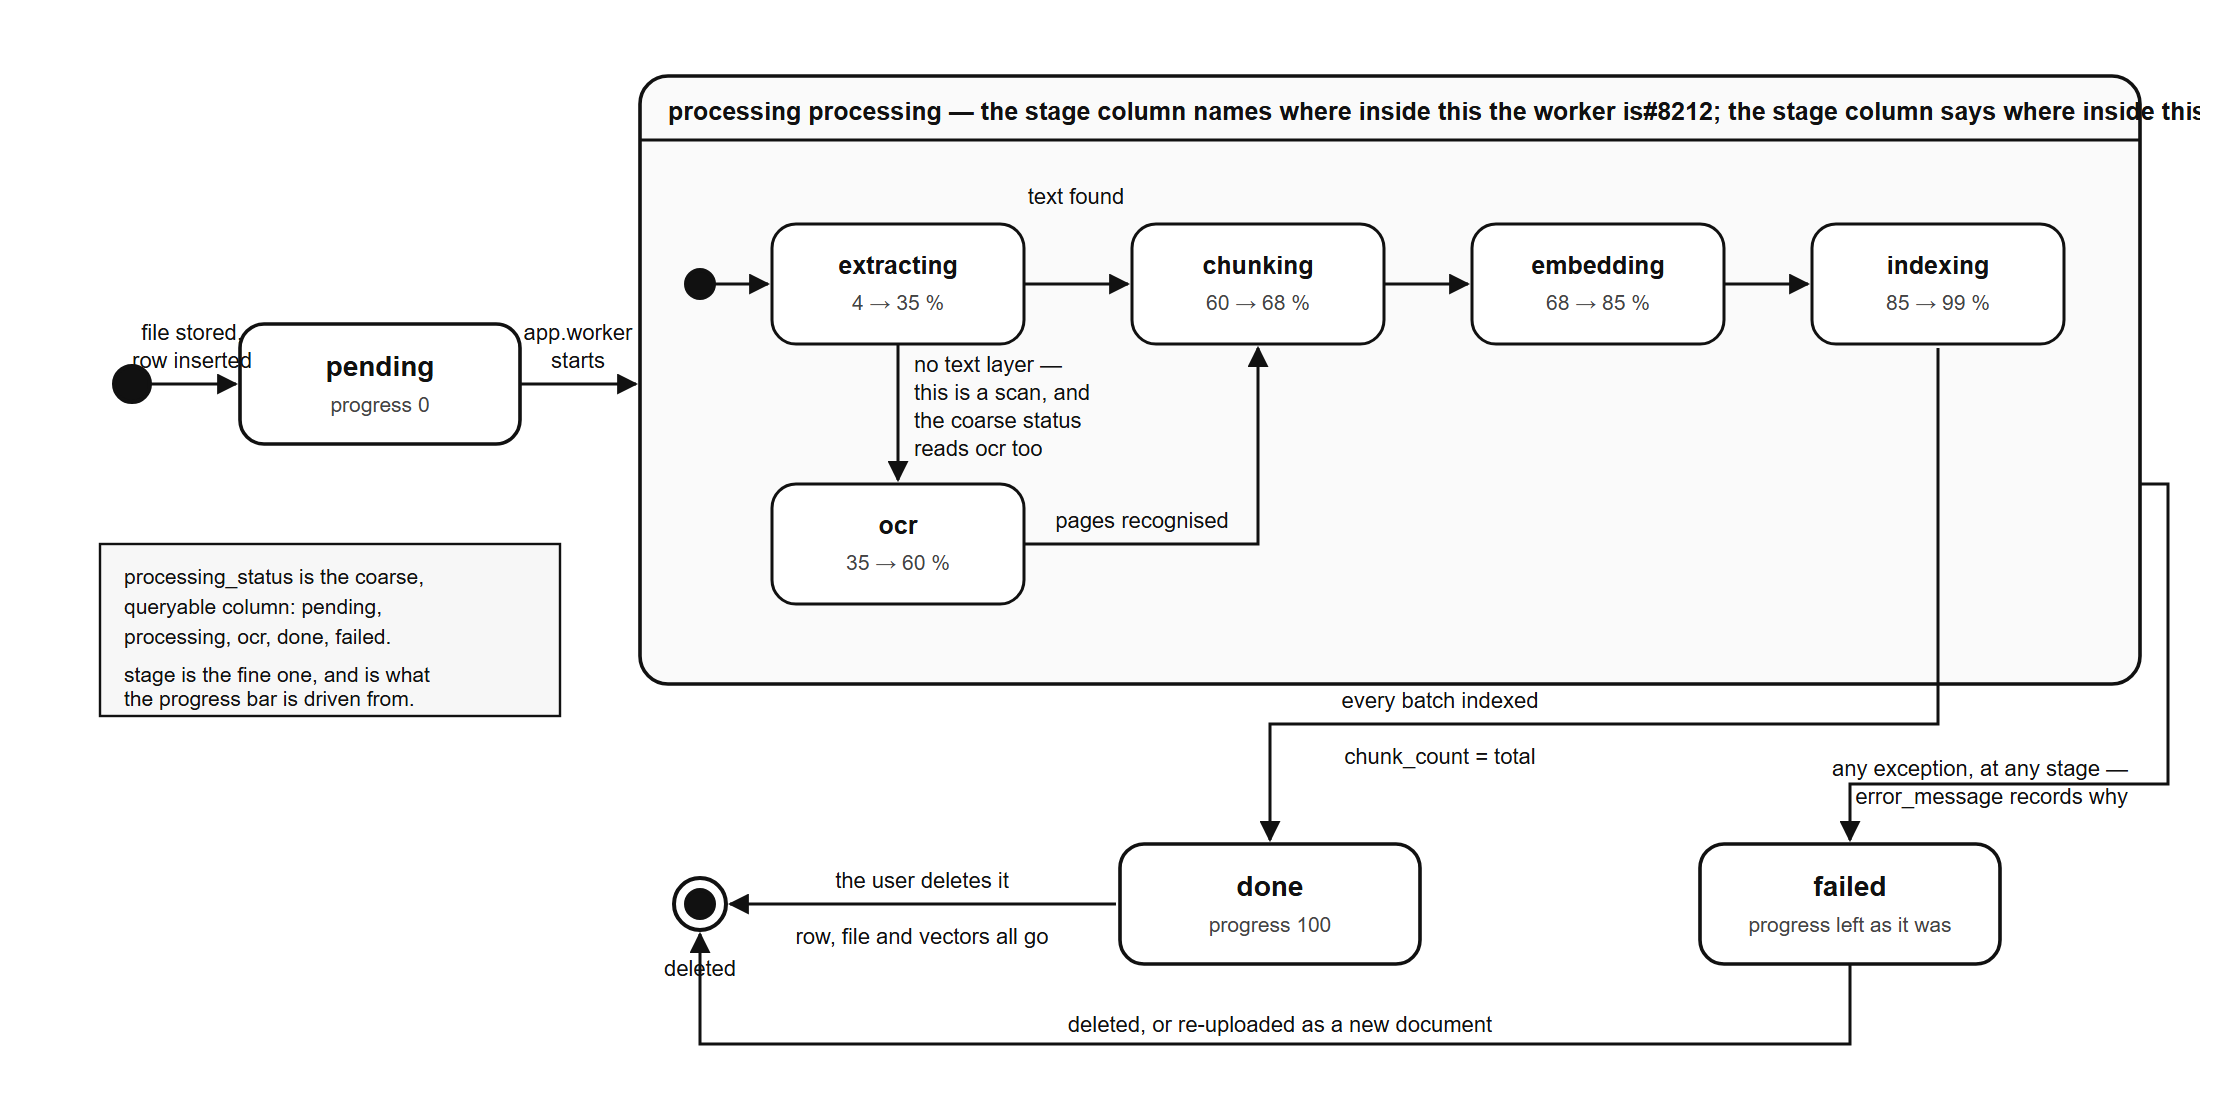
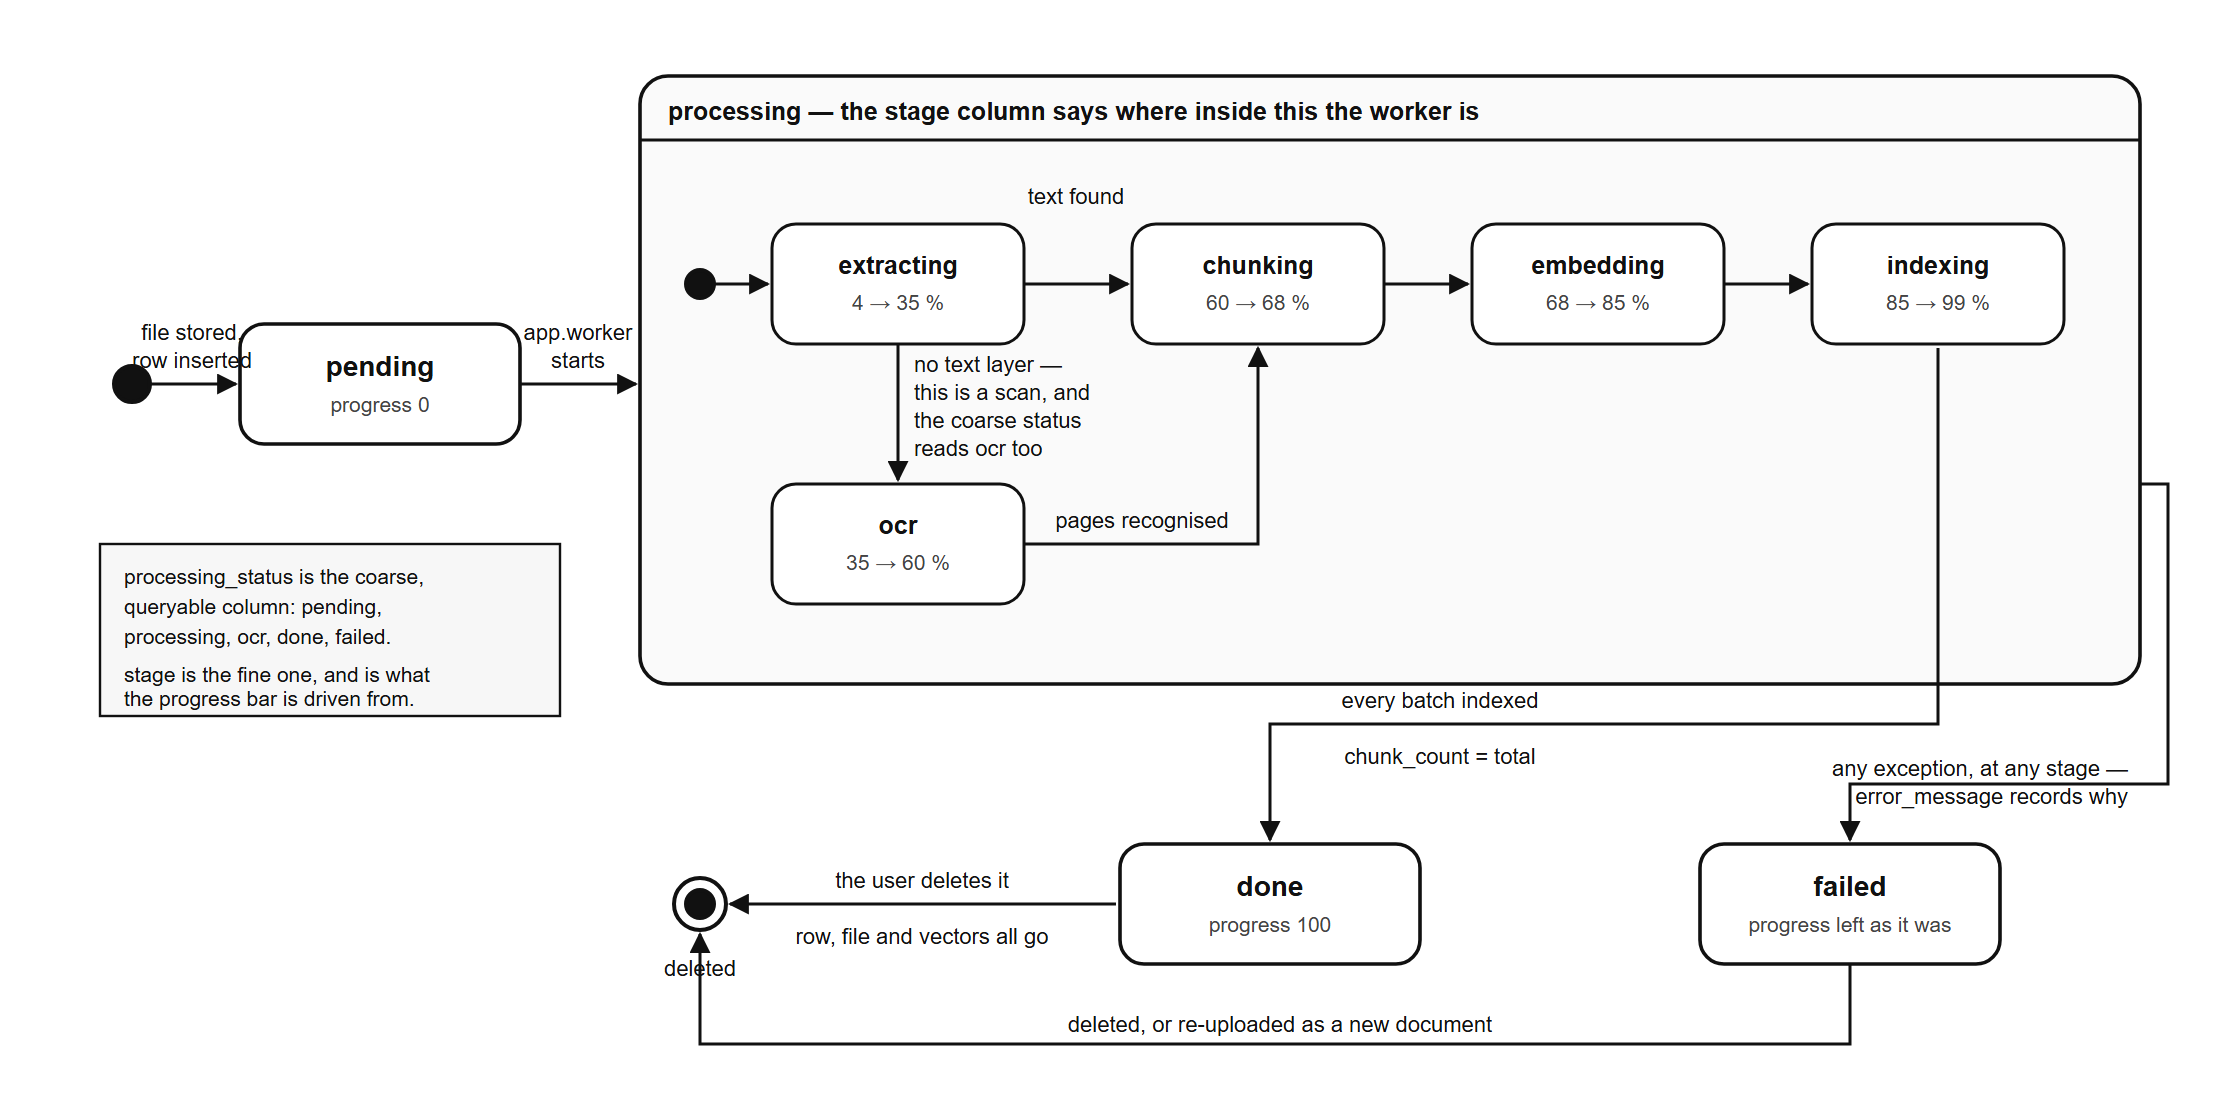
Figure 2.14 was printing a garbled title
The composite state in the document life cycle diagram read:

  processing processing - the stage column names where inside this the
  worker is#8212; the stage column says where inside this the worker is

An earlier edit had replaced "names" with "says" and left both fragments in
place, duplicated the state's own name, and broke an em dash entity by dropping
its ampersand, so the raw "#8212;" printed. It ran off the right edge of the
composite box as well.

It now reads:

  processing - the stage column says where inside this the worker is

which is what section 2.8.5 describes: processing_status is the coarse column
and stage is the fine one that names which phase the worker is inside.

This has been in the report through every build and every check, because
nothing reads the text inside a PNG: verify.py reads the Markdown, verify_pdf.py
reads the page text, and a figure is an image to both of them. It was found by
opening the file and looking at it, which the diagram notes in the project have
said to do since the ER diagram needed three passes.

Every other diagram source was checked for the same fault, a numeric entity
missing its ampersand. This was the only one.

312 sheets, unchanged. The image is the same size, so nothing reflowed.

Claude-Session: https://claude.ai/code/session_0193DjuPZvL4wrAbn6dQGysM

Changed region(s): [[0.3438, 0.0938, 1.0, 0.125]]

diff --git a/report/assets/diagrams-src/uml-state-document.html b/report/assets/diagrams-src/uml-state-document.html
@@ -39,7 +39,7 @@
 
   <!-- the composite: what processing_status = 'processing' contains -->
   <rect class="comp" x="300" y="96" width="750" height="304"/>
-  <text class="comp-t" x="314" y="118">processing processing &#8212; the stage column names where inside this the worker is#8212; the stage column says where inside this the worker is</text>
+  <text class="comp-t" x="314" y="118">processing &#8212; the stage column says where inside this the worker is</text>
   <path class="tr" style="marker-end:none" d="M 300 128 L 1050 128"/>
 
   <circle class="node" cx="330" cy="200" r="7"/>
